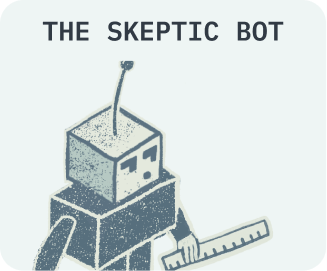
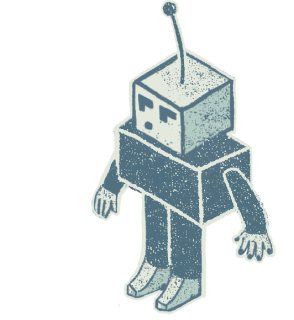
Fixes feedbacks from Ainoa
Details:
- Increases search input size
- Adds more space between top menu icons
- Zooms on the topic when users search for an exact number
- Resets zoom otherwise (for consistency)
- Replaces toggle by placeholder message when no result found
- Fixes bot pages title breaks and badge border radius
- Updates bot images

diff --git a/src/components/ImageViewer.tsx b/src/components/ImageViewer.tsx
@@ -1,15 +1,14 @@
 import cx from "classnames";
 import { clamp, max } from "lodash";
-import { Placement, Point as SeadragonPoint, Viewer } from "openseadragon";
+import { Placement, Point, Point as SeadragonPoint, Viewer } from "openseadragon";
 import { FC, useCallback, useEffect, useMemo, useRef, useState } from "react";
 import { AiOutlineMinus, AiOutlinePlus } from "react-icons/ai";
 import { FaRegCircleDot } from "react-icons/fa6";
 
 import { useAppContext } from "../core/context.ts";
-import { Topic } from "../core/types.ts";
+import { Coordinates, Topic } from "../core/types.ts";
 import { height, width } from "../map-dimensions.json";
 import { getElements, getQuadTree } from "../utils/quadtree.ts";
-import { useIsMounted } from "../utils/useIsMounted.ts";
 
 const ZOOM_BUTTON_INCR = 1.4;
 const MIN_EXPAND_ZOOM = 20;
@@ -17,11 +16,14 @@ const MIN_HIGHLIGHTS_ZOOM = 14;
 const ID = "seadragon-viewer";
 const TILE_SOURCES = `${import.meta.env.BASE_URL}/map/map.dzi`;
 
+let lastViewportState: { x: number; y: number; zoom: number } | null = null;
+
 export const ImageViewer: FC<{
   points?: Topic[];
   hidden?: boolean;
-}> = ({ points, hidden }) => {
-  const isMounted = useIsMounted();
+  focus?: Coordinates;
+}> = ({ points, hidden, focus }) => {
+  const [isFullyLoaded, setIsFullyLoaded] = useState(false);
   const overlaysRef = useRef<Map<string, { dom: HTMLDivElement; topic: Topic }>>(new Map());
   const [viewer, setViewer] = useState<Viewer | null>(null);
   const ctxRef = useRef<CanvasRenderingContext2D | null>(null);
@@ -56,13 +58,17 @@ export const ImageViewer: FC<{
     const viewer = new Viewer({
       id: ID,
       tileSources: TILE_SOURCES,
-      animationTime: 0.5,
+      animationTime: 1,
       homeFillsViewer: true,
       constrainDuringPan: true,
     });
     const canvas = document.createElement("CANVAS") as HTMLCanvasElement;
     canvas.classList.add("topics-canvas");
     viewer.container.querySelector(".openseadragon-canvas")!.append(canvas);
+
+    viewer.addHandler("open", () => {
+      setIsFullyLoaded(true);
+    });
 
     setViewer(viewer);
     ctxRef.current = canvas.getContext("2d");
@@ -72,6 +78,15 @@ export const ImageViewer: FC<{
       ctxRef.current = null;
     };
   }, []);
+
+  useEffect(() => {
+    if (isFullyLoaded && viewer) {
+      if (lastViewportState) {
+        viewer.viewport.panTo(new Point(lastViewportState.x, lastViewportState.y), true);
+        viewer.viewport.zoomTo(lastViewportState.zoom, undefined, true);
+      }
+    }
+  }, [isFullyLoaded, viewer]);
 
   // Handle topics rendering:
   useEffect(() => {
@@ -95,7 +110,7 @@ export const ImageViewer: FC<{
         else dom.classList.remove("expand");
       });
     });
-  }, [getTopicsOnScreen, isMounted, maxLocalDensity, points, viewer]);
+  }, [getTopicsOnScreen, isFullyLoaded, maxLocalDensity, points, viewer]);
 
   // Handle canvas rendering small points:
   useEffect(() => {
@@ -133,7 +148,28 @@ export const ImageViewer: FC<{
     return () => {
       viewer.removeHandler("viewport-change", handler);
     };
-  }, [getTopicsOnScreen, points, quadTree, isMounted, viewer]);
+  }, [getTopicsOnScreen, points, quadTree, isFullyLoaded, viewer]);
+
+  // Handle state management:
+  useEffect(() => {
+    if (!viewer) return;
+
+    const handler = () => {
+      const { viewport } = viewer;
+
+      const center = viewport.getCenter(true);
+      lastViewportState = {
+        x: center.x,
+        y: center.y,
+        zoom: viewport.getZoom(true),
+      };
+    };
+
+    viewer.addHandler("viewport-change", handler);
+    return () => {
+      viewer.removeHandler("viewport-change", handler);
+    };
+  }, [viewer]);
 
   // Handle overlays/highlights lifecycle:
   useEffect(() => {
@@ -179,7 +215,17 @@ export const ImageViewer: FC<{
         overlaysCache.delete(id);
       }
     });
-  }, [pointsToDisplay, isMounted, viewer]);
+  }, [pointsToDisplay, isFullyLoaded, viewer]);
+
+  // Handle focus:
+  useEffect(() => {
+    if (!viewer) return;
+
+    if (focus) {
+      const rect = viewer.viewport.imageToViewportRectangle(focus.x, focus.y);
+      viewer.viewport.fitBoundsWithConstraints(rect);
+    }
+  }, [focus, viewer]);
 
   return (
     <div className={cx("image-viewer", hidden && "visually-hidden")}>
@@ -187,7 +233,7 @@ export const ImageViewer: FC<{
 
       <div className="navigation p-3 d-flex flex-column">
         <button className="btn btn-primary border-white mb-1 small" onClick={() => viewer?.viewport.goHome()}>
-          <FaRegCircleDot className="small" />
+          <FaRegCircleDot />
         </button>
         <button className="btn btn-primary border-white mb-1" onClick={() => viewer?.viewport.zoomBy(ZOOM_BUTTON_INCR)}>
           <AiOutlinePlus />

diff --git a/src/pages/TopicPage.tsx b/src/pages/TopicPage.tsx
@@ -1,3 +1,4 @@
+import cx from "classnames";
 import { FC, useEffect } from "react";
 import { FaArrowLeft } from "react-icons/fa6";
 import { makeLoader, useLoaderData } from "react-router-typesafe";
@@ -9,6 +10,7 @@ import { loadTopicContent } from "../core/api.ts";
 import { useAppContext } from "../core/context.ts";
 import { translate } from "../utils/translation.ts";
 
+// eslint-disable-next-line react-refresh/only-export-components
 export const topicPageLoader = makeLoader(async ({ params: { topicID } }) => {
   if (!topicID) throw new Error("Required topic ID is missing from URL");
   const topic = await loadTopicContent(topicID);
@@ -20,6 +22,8 @@ export const TopicPage: FC = () => {
   const { topic } = useLoaderData<typeof topicPageLoader>();
   const { language, topicsDict } = useAppContext();
   const topicPoint = topicsDict[topic.id];
+  const topicHeadline = translate(topic.headline, language);
+  const topicHeadlineHyphens = topicHeadline.split(" ").some((str) => str.length > 14);
 
   useEffect(() => {
     window.scrollTo({
@@ -38,10 +42,12 @@ export const TopicPage: FC = () => {
 
       <section className="p-4">
         <div className="mb-3">
-          <small className="px-2 py-1 border border-light-blue color-light-blue font-monospace">#{topic.number}</small>
+          <small className="px-2 py-1 border border-light-blue color-light-blue rounded-1 font-monospace">
+            #{topic.number}
+          </small>
         </div>
 
-        <h1 className="fw-bolder mb-3 hyphens">{translate(topic.headline, language)}</h1>
+        <h1 className={cx("fw-bolder mb-3", topicHeadlineHyphens && "hyphens")}>{topicHeadline}</h1>
 
         <MapThumbnail className="w-100 mb-3" points={[topicPoint]} />
 
@@ -54,11 +60,12 @@ export const TopicPage: FC = () => {
         <section className="d-flex flex-row justify-content-between my-4">
           <a
             href={`#/topic/${topic.id}/bot/critic`}
-            className="border-0 bg-light-blue text-primary rounded me-3 text-decoration-none"
+            className="border-0 bg-light-blue text-primary rounded me-3 text-decoration-none overflow-hidden"
+            style={{ height: 150 }}
           >
             <div className="text-uppercase font-monospace text-center fw-bolder m-2">The skeptic bot</div>
             <img
-              src={`${import.meta.env.BASE_URL}/bot.png`}
+              src={`${import.meta.env.BASE_URL}/bot-skeptic.png`}
               alt="The skeptic bot"
               className="img-fluid w-100"
               style={{ transform: "scale(-1,1)" }}
@@ -66,10 +73,15 @@ export const TopicPage: FC = () => {
           </a>
           <a
             href={`#/topic/${topic.id}/bot/potential`}
-            className="border-0 bg-primary text-light-blue rounded text-decoration-none"
+            className="border-0 bg-primary text-light-blue rounded text-decoration-none overflow-hidden"
+            style={{ height: 150 }}
           >
             <div className="text-uppercase font-monospace text-center fw-bolder m-2">The advocate bot</div>
-            <img src={`${import.meta.env.BASE_URL}/bot.png`} alt="The advocate bot" className="img-fluid w-100" />
+            <img
+              src={`${import.meta.env.BASE_URL}/bot-advocate.png`}
+              alt="The advocate bot"
+              className="img-fluid w-100"
+            />
           </a>
         </section>
 

diff --git a/src/pages/Map.tsx b/src/pages/Map.tsx
@@ -1,6 +1,6 @@
-import cx from "classnames";
 import { fromPairs } from "lodash";
-import { FC, useMemo, useState } from "react";
+import { FC, useEffect, useMemo, useState } from "react";
+import { LuSearchX } from "react-icons/lu";
 import { useLocation } from "react-router";
 
 import { ImageViewer } from "../components/ImageViewer.tsx";
@@ -36,6 +36,10 @@ export const Map: FC = () => {
       .flatMap(({ id }) => (topicsDict[id] ? [topicsDict[id]] : []));
   }, [language, miniSearch, query, topicsDict]);
 
+  useEffect(() => {
+    setMode("map");
+  }, [query]);
+
   return (
     <main className="bg-secondary text-white d-flex flex-column">
       <TopMenu colorClassNameSuffix="light">
@@ -43,7 +47,11 @@ export const Map: FC = () => {
       </TopMenu>
 
       <section className="flex-grow-1 position-relative">
-        <ImageViewer points={results || undefined} hidden={mode !== "map"} />
+        <ImageViewer
+          points={results || undefined}
+          hidden={mode !== "map"}
+          focus={results?.length === 1 && results[0].index === +query.trim() ? results[0] : undefined}
+        />
         {mode === "list" && results && (
           <div className="position-absolute inset-0 bg-secondary p-4 overflow-auto pt-5">
             <SearchResults query={query} results={results} />
@@ -52,21 +60,35 @@ export const Map: FC = () => {
       </section>
 
       <section className="p-4 pt-0 pb-4">
-        <div className="mb-2 mt-2">
-          <Toggle
-            id="select-results-mode"
-            className={cx("small font-monospace text-light", !query && "invisible")}
-            disabled={!query}
-            checked={mode === "list"}
-            onChange={(checked) => setMode(checked ? "list" : "map")}
-            label={translate(
-              {
-                en: "Show results in a list",
-                da: "Vis resultater i en liste",
-              },
-              language,
-            ).toUpperCase()}
-          />
+        <div className="mb-2 mt-2" style={{ height: "2em" }}>
+          {!!query && !!results?.length && (
+            <Toggle
+              id="select-results-mode"
+              className="small font-monospace text-light"
+              disabled={!query}
+              checked={mode === "list"}
+              onChange={(checked) => setMode(checked ? "list" : "map")}
+              label={translate(
+                {
+                  en: "Show results in a list",
+                  da: "Vis resultater i en liste",
+                },
+                language,
+              ).toUpperCase()}
+            />
+          )}
+          {!!query && !results?.length && (
+            <div className="small pt-1 text-truncate">
+              <LuSearchX className="me-2 fs-4" />{" "}
+              {translate(
+                {
+                  en: `No topics related to ${query.trim()}`,
+                  da: `Intet emne relateret til ${query.trim()}`,
+                },
+                language,
+              ).toUpperCase()}
+            </div>
+          )}
         </div>
         <div className="mb-2 d-none">
           <Toggle

diff --git a/src/pages/TopicBotPage.tsx b/src/pages/TopicBotPage.tsx
@@ -1,3 +1,4 @@
+import cx from "classnames";
 import { FC, useEffect } from "react";
 import { BiSolidQuoteAltLeft, BiSolidQuoteAltRight } from "react-icons/bi";
 import { FaArrowLeft } from "react-icons/fa6";
@@ -17,6 +18,9 @@ export const TopicBotPage: FC<{ bot: Bot }> = ({ bot }) => {
 
   const textColor = bot === "critic" ? "primary" : "light-blue";
   const bgColor = bot === "critic" ? "light-blue" : "primary";
+  const botImg = bot === "critic" ? "bot-skeptic" : "bot-advocate";
+  const botHeadline = translate(topic.headline, language);
+  const botHeadlineHyphens = botHeadline.split(" ").some((str) => str.length > 12);
   const botContent = translate(topic.bots[bot], language);
   const botLanguage = topic.bots[bot][language] ? language : getOtherLanguage(language);
 
@@ -38,13 +42,13 @@ export const TopicBotPage: FC<{ bot: Bot }> = ({ bot }) => {
       <section className="m-4 pb-0 d-flex flex-row align-items-end justify-content-between mb-3">
         <div className="flex-shrink-1 pt-1" style={{ flexBasis: "65%" }}>
           <div className="mb-3">
-            <small className={`px-2 py-1 border border-${textColor} font-monospace`}>#{topic.number}</small>
+            <small className={`px-2 py-1 rounded-1 border border-${textColor} font-monospace`}>#{topic.number}</small>
           </div>
 
-          <h1 className="fw-bolder mb-0 hyphens">{translate(topic.headline, language)}</h1>
+          <h1 className={cx("fw-bolder mb-0", botHeadlineHyphens && "hyphens")}>{botHeadline}</h1>
         </div>
         <img
-          src={`${import.meta.env.BASE_URL}/bot.png`}
+          src={`${import.meta.env.BASE_URL}/${botImg}.png`}
           alt="The advocate bot"
           className="img-fluid flex-shrink-0"
           style={{ width: "35%" }}

diff --git a/src/components/SearchField.tsx b/src/components/SearchField.tsx
@@ -1,6 +1,7 @@
 import cx from "classnames";
 import { FC, useEffect, useState } from "react";
-import { AiOutlineClose, AiOutlineSearch } from "react-icons/ai";
+import { AiOutlineClose } from "react-icons/ai";
+import { LuSearch } from "react-icons/lu";
 
 import { useAppContext } from "../core/context.ts";
 import { translate } from "../utils/translation.ts";
@@ -41,7 +42,7 @@ export const SearchField: FC<{
         <input
           type="string"
           autoComplete="off"
-          className={cx("form-control bg-light-blue", inputClassName)}
+          className={cx("form-control bg-light-blue fs-5", inputClassName)}
           id="topics-search"
           placeholder="Eg: 1640, Food"
           value={query}
@@ -71,7 +72,7 @@ export const SearchField: FC<{
           </button>
         )}
         <button className={cx("btn btn-light px-2", inputClassName)} type="submit">
-          <AiOutlineSearch />
+          <LuSearch />
         </button>
       </div>
     </form>

diff --git a/src/components/TopMenu.tsx b/src/components/TopMenu.tsx
@@ -21,12 +21,12 @@ export const TopMenu: FC<PropsWithChildren<{ colorClassNameSuffix: string }>> = 
         {isMenuOpen && (
           <div className="position-absolute inset-0">
             <LanguageSelect
-              className="w-auto me-1 d-inline-block align-baseline"
+              className="w-auto me-2 d-inline-block align-baseline"
               selectClassName={`border-${colorClassNameSuffix} text-${colorClassNameSuffix}`}
             />
             <a
               href="#/about"
-              className={`btn btn-sm btn-outline-${colorClassNameSuffix} d-inline-block align-baseline font-monospace text-uppercase me-1`}
+              className={`btn btn-sm btn-outline-${colorClassNameSuffix} d-inline-block align-baseline font-monospace text-uppercase me-2`}
             >
               {translate(
                 {

diff --git a/src/components/Toggle.tsx b/src/components/Toggle.tsx
@@ -21,7 +21,7 @@ export const Toggle: FC<{
         onChange={(e) => onChange(e.target.checked)}
       />
       {checked ? <FaToggleOn className="fs-1" /> : <FaToggleOff className="fs-1" />}
-      {label && <span className="ms-2 small">{label}</span>}
+      {label && <span className="ms-2">{label}</span>}
     </label>
   );
 };

diff --git a/src/pages/Root.tsx b/src/pages/Root.tsx
@@ -21,6 +21,7 @@ const FULL_INDEX_OPTIONS = {
   idField: "id",
 };
 
+// eslint-disable-next-line react-refresh/only-export-components
 export const rootLoader = makeLoader(async () => {
   const topics = await loadTopics();
 

diff --git a/src/utils/useSpeech.ts b/src/utils/useSpeech.ts
@@ -53,7 +53,7 @@ export function useSpeech(lang: Language) {
       speechSynthesis.speak(utterance);
       setIsSpeaking(true);
     },
-    [cancelSpeak, voice],
+    [cancelSpeak, lang, voice],
   );
 
   useEffect(() => {
